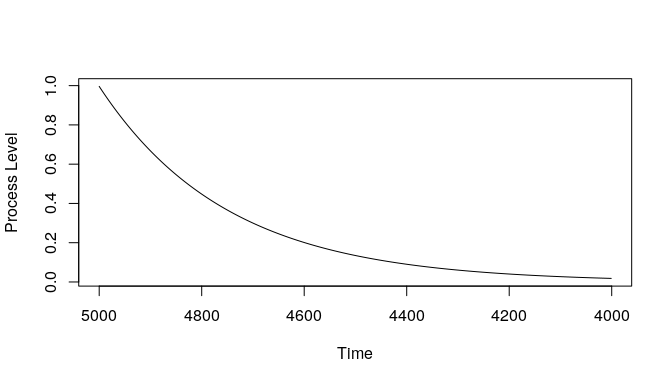
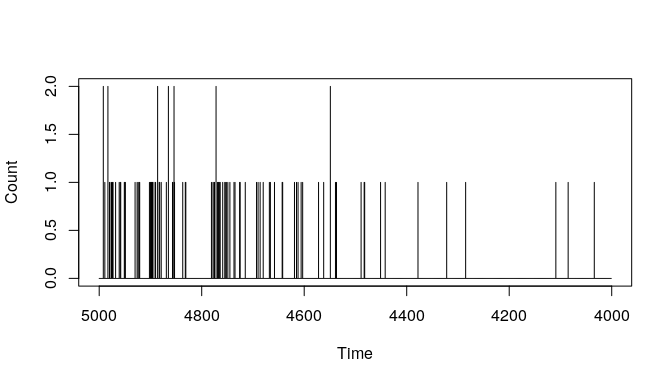
README edits

diff --git a/README.md b/README.md
@@ -1,36 +1,12 @@
+Chronological Uncertainty Propagation Toolkit
+================
 
 <!-- README.md is generated from README.Rmd. Please edit that file -->
-# Summary
+# The chronup R package
 
 Chronological uncertainty poses a ubiquitous challenge for sciences of the past. Nearly all of the observations we can make about past people, animals, plants, objects, and events need to be dated, and those dates are usually uncertain because the chronometric methods available come with uncertainty. Some methods come with relatively small uncertainties, like dendrochronology, which can yield age estimates with single-year errors. Others come with much higher levels of uncertainty, like radiocarbon dating, which can yield age estimates with errors ranging from decades to centuries or more. These uncertainties have long been acknowledged by the scientific community but are usually left out of formal analyses. As a result, many studies of the past contain a hidden bias. Recently, some effort has been directed toward understanding the impact that chronological uncertainty has on quantitative methods commonly used in fields like archaeology and palaeoclimatology and, consequently, the impact it has on our current understanding of the past. At the same time, statistical approaches with better handling of chronological uncertainty are being investigated and developed. One methodological avenue actively being explored involves uncertainty (error) propagation, and the R package chronup is being developed to provide access to the statistical tools produced as part of that ongoing research.
 
-# Uncertainty and uncertainty propagation
-
-Uncertainty propagation is crucial for assessing what we know about the past. If, for example, someone claimed that the Bronze Age Mycenaean civilization of ancient Greece collapsed because climate changes devastated their crops, then one way to assess the plausibility of that claim would be to compare the dates for two key events: the collapse and the climatic change. But, if all we are given are single dates for each event with no indication about the certainty of those age estimates, we cannot evaluate the claim that they were synchronous, let alone causally related. The dates probably have uncertainties---like all scientific measurements---and so we have to be able to include those uncertainties in our assessment of the inference that the two events were related. When combining uncertain observations to produce an inference, we have to propagate the relevant uncertainties from the observations to the inference. This uncertainty propagation is an important part of knowledge discovery involving aggregated observations.
-
-Imagine that what we know about the past exists in a hierarchy. At the lower levels, what we know comes from more-or-less direct observations, and the inferential distance between a given observation and some related past event is short. For example, if we find a grave with human skeletal remains in it, then we know that a person died and was buried in the grave. That set of events (perhaps not in that order) must have occurred at some point in the past. The inferential path we have to take to get from observing a buried skeleton to knowing that a person died is pretty short. But, when they died, where they lived, how they made a living, what their grave indicates about their culture, and so on are all examples of knowledge that cannot be obtained by direct observation and short inferential paths. Instead, that knowledge can only be acquired by hiking much longer inferential paths. This kind of inferred knowledge exists at the upper levels of the knowledge hierarchy. These upper levels, though, are ultimately based on the more direct observations that inhabit the lower levels. Lower-level information needs to be aggregated and analyzed to produce higher-level knowledge.
-
-At all levels, though, there are uncertainties. With the grave, for instance, we might want to know where it is located with respect to other graves or geographic features in order to make inferences about the decisions and/or events that ultimately led to the grave ending up where we found it. Any measurement of distance must be made with instruments and methods that we know to have uncertainties. The same is true of time. If we want to know when the person died, for instance, we could measure the ratio of radiocarbon isotopes in their bones and then use the known rate at which one isotope decays into another to estimate the age of the skeleton. That age estimate fairly closely refers to the time at which the person stopped metabolizing carbon from their environment---i.e., approximately when they died. Importantly, There are a number of well-understood sources of uncertainty involved in making the age determination and these uncertainties need to be accounted for. We need to ensure that the uncertainties at the lower-levels of the knowledge hierarchy are propagated into the higher-levels.
-
-We have many scientific tools at our disposal for moving up the knowledge hierarchy and many have been designed to account for uncertainty. A particularly important and commonly-used one is regression. Regression analyses allow us to compare two or more variables in search of relationships between and/or among them. In a basic regression analysis, the aim is to predict or explain variation in one variable, often referred to as the 'dependent variable', with one or more others, often called 'independent variables'. The relationship between these variables is described by a regression function---a mathematical equation that expresses the amount of change in one variable as a function of a change in one or more others. The parameters of a regression function (i.e., regression coefficients) have uncertainties associated with them, but the most commonly-used regression methods consider only one dimension of uncertainty per variable. For example, a regression model comparing global temperature with greenhouse gas emissions is likely to account for uncertainty in the temperature measurements along a continuum of temperatures (one dimension) and uncertainty in greenhouse gas concentration measurements along a continuum of greenhouse gas concentrations (also one dimension).
-
-Chronological uncertainty, however, often exists in a separate dimension from the a corresponding measurement of interest. Consider palaeothermometry with oxygen isotopes, for example. To reconstruct past temperature variation, scientists exploit a known-relationship between oxygen isotope ratios and ambient temperature. Building a record of past temperatures, then, can be accomplished with a series of isotope measurements and associated ages. Frequently, these isotope series are derived from ice cores, with the North Greenland Ice Core (NGRIP) project having produced the best-known series. Atmospheric oxygen isotopes were incorporated into Greenland glaciers over time as annual layers of snow gradually compressed into solid ice. Each oxygen isotope measurement in the NGRIP record comes from one of these thin layers of ice. Multiple isotope measurements, then, from a sequence of layers can be used to construct a palaeotemperature series.
-
-With ice-core palaeothermometry, there are two main dimensions of uncertainty. The isotope measurement is the focal measure because its the variation in isotope measurements over time that corresponds to variation in temperature. The readings come with measurement uncertainties that indicate a range of plausible isotope values for the relevant ice layer and, in turn, for the atmosphere at the time the layer was formed. The range of possible isotope values can be thought of as the 'isotope measurement' dimension---a continuous range of values referring exclusively to the ratio of two isotope abundances in a sample. The other key dimension is depth along the ice core, a 'depth measurement' dimension. Each isotope measurement has a corresponding depth measurement. Deeper layers formed first, followed by shallower ones, which means that the isotope values can potentially be ordered with respect to time. Identifying and counting the layers is a measurement process, though, that also comes with uncertainty---much more than has often been appreciated. So, if we plotted oxygen isotopes from an ice core as a time series, it would be important to recognize that this single variable has uncertainties in two dimensions. One indicates uncertainty in a given isotope measurement (the vertical axis of a standard plot) and the other dimension indicates uncertainty with respect to the age of that measurement (the horizontal axis).
-
-Now, imagine comparing an uncertain isotope temperature proxy to a second series of observations about the past. Take for instance a comparison involving human settlement counts and a palaeotemperature series. One might expect there to be a correlation between hemispheric temperature and numbers of settlements, assuming that the latter corresponds in some way to regional population size. During times with optimal temperatures we could expect more settlements, and during periods of extreme temperatures we might expect fewer settlements.
-
-Like the isotope record, the settlement count record would have two dimensions of uncertainty. One would correspond to count, the focal measurement, with counting uncertainty from several sources including sampling variability, the visibility of the settlement remains, and other factors. As with the isotopes, the other measurement dimension is time. In order to be counted with respect to time, each settlement would have to be dated. Commonly, dating settlements would be done with a combination of chronometric tools, but for the sake of simplicity here we can ignore the details and just assume a date is available. As explained earlier, all chronometric methods have uncertainties, so the date for the habitation/occupation/use of each settlement is given with some uncertainty estimate. This means that individual settlements could potentially be dated to multiple times, or any interval within a given span of probable times. Thus, the count of settlements at any given time is uncertain in part because of chronological uncertainties, but those uncertainties can be thought of as existing on a separate dimension from the focal count measurement.
-
-In a typical regression model, however, time is taken for granted and only the two focal measurements are considered. In the temperature--settlement example, a basic regression model would compare isotope values on the one hand with settlement counts on the other. Viewing the comparison in a scatter plot, we would see one axis for settlement count (let that be the dependent variable) and another for the temperature reconstruction (an independent variable). Chronological uncertainty would be hidden from view, a dimension not represented in the scatter plot or the regression model. Even a sophisticated errors-in-variables regression model designed to handle uncertainty on both sides of a comparison would normally only be considering uncertainties with respect to count and temperature---the two dimensions of the scatter plot. It would not consider the possibility that the individual observations pertaining to either focal measurement might be dated to different times. That each observation may be dated to a range of probable times means observation pairings in the scatter plot (and the regression model, ultimately) could be incorrect. The true pairings between temperature and settlement count are unknown and unknowable with perfect certainty.
-
-For the most part, chronological uncertainty has simply been left out of these kinds of comparisons. Instead, average or median age estimates are often used to date observations. It is, therefore, very likely that any resulting inferences are biased and possibly quite misleading. In fact, ignoring a dimension of uncertainty altogether by using a point estimate like an average instead of considering the relevant uncertainties is, by definition, introducing a bias---it would be an example of the well-known bias--variance trade off. Consequently, inferences about the past that occupy the higher levels of the knowledge hierarchy are frequently biased because the fundamental uncertainties of the lower-levels have not been propagated up the hierarchy.
-
-To address this problem, regression approaches that incorporate multiple dimensions of uncertainty should be developed and used. Chronological uncertainty needs to be propagated along with other uncertainties. In the context of regression models involving observations about the past, that propagation means that regression coefficient estimates (and any other parameters of interest) should reflect chronological uncertainty associated with all relevant observations.
-
-The tools in the chronup package are intended to facilitate chronological uncertainty propagation. The rest of this document presents a standard analytical pipeline for a regression analysis using chronup.
-
-# Chronological uncertainty propagation in regression with chronup
+# Basic workflow
 
 Comparing counts of radiocarbon dated samples to palaeoclimate proxies has become increasingly common in archaeology. This type of research is predicated on a popular argument about the relationship between concentrations of radiocarbon samples and human population size and/or 'activity', abstractly defined. Human activity, the argument goes, leads to increases in organic carbon contained in archaeological sediments. This is because, essentially, more people means more human remains, more fires producing charred organic carbon, more garbage pits (middens) containing organic material, more settlements with evidence of all three, etc. And so, it follows that variation through time in radiocarbon sample frequency can be expected to correlate with human population levels, broadly speaking and under certain sampling conditions---though, important caveats and inferential challenges are widely recognized. With this logic in mind, we will go over a typical chronup workflow for conducting a regression analysis involving radiocarbon dated event counts.
 
@@ -64,7 +40,7 @@ times <- 5000:4001
 beta <- -0.004
 process <- exp(1:nintervals * beta)
 nevents <- 100
-nsamples <- 5000
+nsamples <- 10000
 sim_sequences <- simulate_event_counts(process = process,
                             times = times,
                             nevents = nevents,
@@ -75,7 +51,7 @@ sim_sequences <- simulate_event_counts(process = process,
 #> Simulating event count sequences.
 ```
 
-There are two optional arguments included in the function call above, 'bigmatrix' and 'parallel'. In practice, a very large number of plausible event count sequences should be explored in order to account for the chronological uncertainty represented by the joint-density of radiocarbon-dates for a set of events. It is also increasingly common in the academic literature for the number of radiocarbon samples analyzed to be quite large (hundreds to tens-of-thousands of dates). So, to accommodate the large number of plausible count sequences that should be drawn---which can run into the millions---the chronup package can make use of parallelization for sampling and the R package 'bigmemory' for handling large matrices. The 'parallel' and 'bigmatrix' options were set to 'F' because CRAN necessarily limits the computational resources required for producing vignettes, so they are unnecessary for this demonstration. In practice, though, many more cores may be needed to run a real analysis involving hundreds to thousands of dates and a bigmemory matrix may be required to store and manipulate millions of sampled event count sequences.
+There are two optional arguments included in the function call above, 'bigmatrix' and 'parallel'. In practice, a very large number of plausible event count sequences should be explored in order to account for the chronological uncertainty represented by the joint-density of radiocarbon-dates for a set of events. It is also increasingly common in the academic literature for the number of radiocarbon samples analyzed to be quite large (hundreds to tens-of-thousands of dates). So, to accommodate the large number of plausible count sequences that should be drawn---which can run into the millions---the chronup package can make use of parallelization for sampling and the R package 'bigmemory' for handling large matrices. The 'parallel' and 'bigmatrix' options were set to 'F' because CRAN necessarily limits the computational resources required for producing vignettes, so they were not used for this demonstration. In practice, though, many more cores may be needed to run a real analysis involving hundreds to thousands of dates and a bigmemory matrix may be required to store and manipulate millions of sampled event count sequences.
 
 With the sampled sequences in hand, it will be useful to visualize the data. First, we can plot the event-generating process, reversing the plot axis so that time flows left-to-right:
 
@@ -88,7 +64,7 @@ plot(y = process,
     ylab = "Process Level")
 ```
 
-<img src="man/figures/README-unnamed-chunk-5-1.png" width="100%" />
+<img src="man/figures/README-unnamed-chunk-4-1.png" width="100%" />
 
 As we would expect, the process is an exponential function that decays at the rate 'beta'.
 
@@ -103,7 +79,7 @@ plot(y = sim_sequences$counts$Count,
     ylab = "Count")
 ```
 
-<img src="man/figures/README-unnamed-chunk-6-1.png" width="100%" />
+<img src="man/figures/README-unnamed-chunk-5-1.png" width="100%" />
 
 Lastly, we can plot the joint-density of event count and time in a way that includes the uncertainties involved. The chronup package provides a plotting function, chronup::plot\_count\_ensemble, for this purpose. It takes two main arguments, 'count\_ensemble' and 'times'. The first of these is going to be the count ensemble matrix output by the simulation function we just used, and the second will be another output from that function called 'new\_times'. The latter is a vector of time-stamps that correspond to the rows of the count ensemble matrix. These will be different than the original time-stamps passed to the simulation function as the argument 'times'. The differences arise because the chronological uncertainty associated with individual event times ultimately means that the span of probable time-stamps covered by the simulated event count sequence is longer than the span covered by the original event generating process---a phenomenon sometimes called 'temporal spread'.
 
@@ -112,7 +88,7 @@ plot_count_ensemble(count_ensemble = sim_sequences$count_ensemble,
                     times = sim_sequences$new_times)
 ```
 
-<img src="man/figures/README-unnamed-chunk-7-1.png" width="100%" />
+<img src="man/figures/README-unnamed-chunk-6-1.png" width="100%" />
 
     #> NULL
 
@@ -144,9 +120,9 @@ X <- matrix(
         nrow = n)
 
 dim(Y)
-#> [1] 1285 5000
+#> [1]  1357 10000
 dim(X)
-#> [1]  1285 10000
+#> [1]  1357 20000
 
 Y[1:5, 1:10]
 #>      [,1] [,2] [,3] [,4] [,5] [,6] [,7] [,8] [,9] [,10]
@@ -205,13 +181,13 @@ mcmc_samples <- regress(Y = Y,
 #> 
 
 head(mcmc_samples)
-#>           [,1]          [,2]
-#> [1,] -2.001281 -0.0009786403
-#> [2,] -2.001281 -0.0009786403
-#> [3,] -2.001281 -0.0009786403
-#> [4,] -2.001281 -0.0009786403
-#> [5,] -2.001281 -0.0009786403
-#> [6,] -2.171618 -0.0004540463
+#>           [,1]         [,2]
+#> [1,] -1.992158 -0.001047176
+#> [2,] -1.992158 -0.001047176
+#> [3,] -1.992158 -0.001047176
+#> [4,] -1.992158 -0.001047176
+#> [5,] -1.992158 -0.001047176
+#> [6,] -1.992158 -0.001047176
 ```
 
 When 'adapt' is set to 'FALSE', the function returns the MCMC chains. With enough iterations, the chains will likely contain good samples of the posterior distributions corresponding to the model's parameters. These can be inspected further with standard tools, including those in the 'coda' MCMC package. Here will will simply plot the chains as line-plots and then plot some density estimates to get a quick look at the results:
@@ -223,25 +199,25 @@ indeces <- seq(burnin, dim(mcmc_samples)[1], 1)
 plot(mcmc_samples[indeces, 1], type = "l")
 ```
 
-<img src="man/figures/README-unnamed-chunk-12-1.png" width="100%" />
+<img src="man/figures/README-unnamed-chunk-11-1.png" width="100%" />
 
 ``` r
 plot(mcmc_samples[indeces, 2], type = "l")
 ```
 
-<img src="man/figures/README-unnamed-chunk-12-2.png" width="100%" />
+<img src="man/figures/README-unnamed-chunk-11-2.png" width="100%" />
 
 ``` r
 plot(density(mcmc_samples[indeces, 1]))
 ```
 
-<img src="man/figures/README-unnamed-chunk-12-3.png" width="100%" />
+<img src="man/figures/README-unnamed-chunk-11-3.png" width="100%" />
 
 ``` r
 plot(density(mcmc_samples[indeces, 2]))
 ```
 
-<img src="man/figures/README-unnamed-chunk-12-4.png" width="100%" />
+<img src="man/figures/README-unnamed-chunk-11-4.png" width="100%" />
 
 As the plots show, the chains are not fully stable and the density estimates are biased, but these indicators of poor convergence are the result of too few MCMC iterations. With more iterations, the chains will stabilize and well-behaved density estimates can be obtained.
 
@@ -278,13 +254,13 @@ mcmc_samples <- regress(Y = Y[indeces,],
 #> 
 
 head(mcmc_samples)
-#>             [,1]         [,2]
-#> [1,] -0.05357157 -0.003608079
-#> [2,] -0.05357157 -0.003608079
-#> [3,] -0.12449051 -0.003830722
-#> [4,] -0.20570103 -0.003257046
-#> [5,] -0.44413849 -0.003966575
-#> [6,] -0.72582842 -0.004283948
+#>            [,1]         [,2]
+#> [1,] -0.2290916 -0.003328936
+#> [2,] -0.2290916 -0.003328936
+#> [3,] -0.4475525 -0.003148933
+#> [4,] -0.3573578 -0.003383181
+#> [5,] -0.3573578 -0.003383181
+#> [6,] -0.3573578 -0.003383181
 ```
 
 As the plots below indicate, the initial bias is significantly reduced and the true parameter estimate ('beta', which was set to -0.004 above) is within the 95% credible interval of the estimated posterior distribution. Again, many more MCMC iterations will be required in order to arrive at good estimates of posterior distributions for the model parameters. The additional iterations will come from increasing the number of randomly sampled probable event count sequences. As a result, an even better estimate of the overall chronological uncertainty in the data can be obtained and then propagated up to the regression model parameter estimates. Additionally, using a Negative-Binomial (NB-REC) model instead would further reduce the bias, especially if the complete time domain of the event count ensemble is being anlayzed instead of a subinterval.
@@ -296,22 +272,22 @@ indeces <- seq(burnin, dim(mcmc_samples)[1], 1)
 plot(mcmc_samples[indeces, 1], type = "l")
 ```
 
-<img src="man/figures/README-unnamed-chunk-14-1.png" width="100%" />
+<img src="man/figures/README-unnamed-chunk-13-1.png" width="100%" />
 
 ``` r
 plot(mcmc_samples[indeces, 2], type = "l")
 ```
 
-<img src="man/figures/README-unnamed-chunk-14-2.png" width="100%" />
+<img src="man/figures/README-unnamed-chunk-13-2.png" width="100%" />
 
 ``` r
 plot(density(mcmc_samples[indeces, 1]))
 ```
 
-<img src="man/figures/README-unnamed-chunk-14-3.png" width="100%" />
+<img src="man/figures/README-unnamed-chunk-13-3.png" width="100%" />
 
 ``` r
 plot(density(mcmc_samples[indeces, 2]))
 ```
 
-<img src="man/figures/README-unnamed-chunk-14-4.png" width="100%" />
+<img src="man/figures/README-unnamed-chunk-13-4.png" width="100%" />
